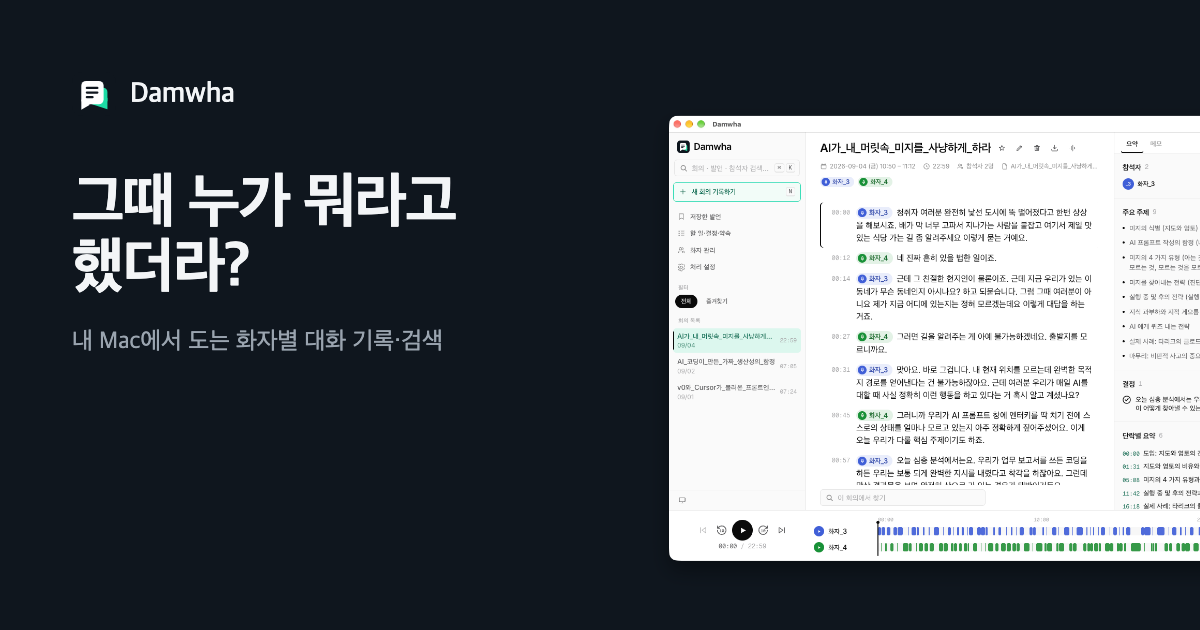
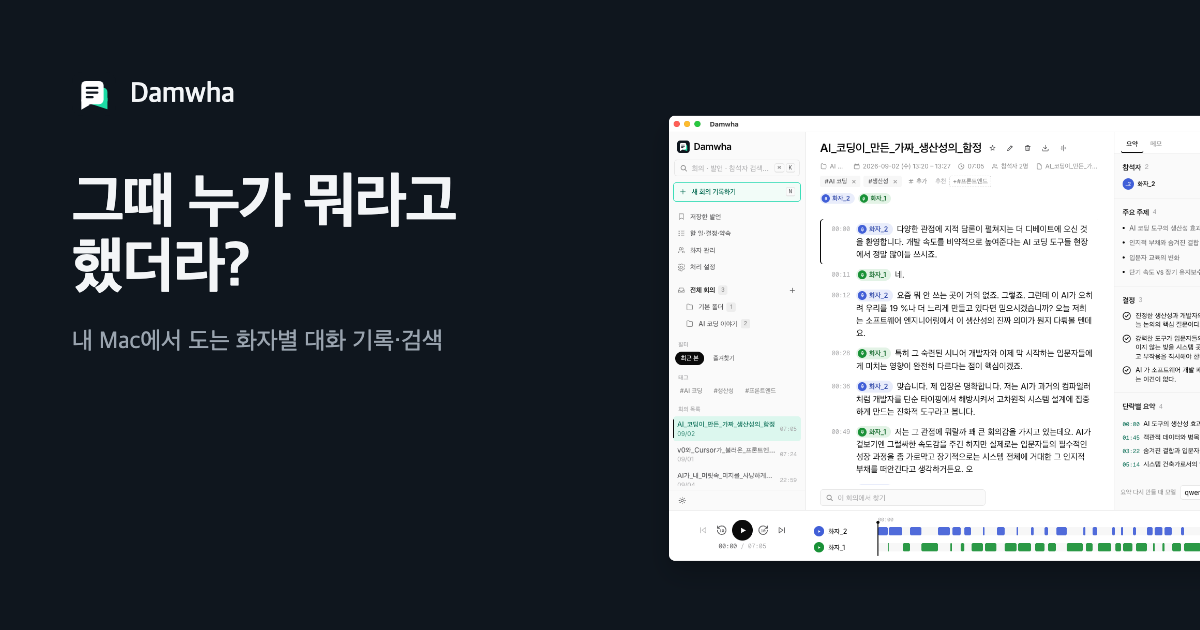
feat(site): 폴더·태그 정리 기능을 소개하고 앱 화면 이미지를 다시 찍는다
기능 목록 맨 앞에 '폴더와 태그로 정리해요'를 두 칸 너비로 넣고(카드 목록·결정/할 일
요약·태그 추천), 화자('나' 지정)·검색(태그로 좁히기) 문구를 보탠다. 이미지 6장은
새 데모 시드를 띄운 SPA를 1280x828로 찍어 창 테두리를 입혔고, 히어로가 바뀌어
OG 두 장도 다시 만든다.

diff --git a/site/src/i18n/ko.ts b/site/src/i18n/ko.ts
@@ -40,14 +40,21 @@ export const ko = {
     title: "그 밖에 하는 일",
     items: [
       {
+        title: "폴더와 태그로 정리해요",
+        body: "앱을 열면 대화가 카드로 펼쳐지고, 최근 결정과 진행 중인 할 일이 맨 위에 보여요. 대화를 폴더에 넣고 태그를 여러 개 붙일 수 있어요 — 요약이 이미 쓰던 태그 중에서 어울리는 걸 추천해요. 사이드바와 ⌘K에서 태그로 걸러 찾아요.",
+        image: "organize",
+        alt: "사이드바의 폴더·태그와 최근 결정, 대화 카드가 보이는 회의 목록 화면",
+        wide: true,
+      },
+      {
         title: "누가 말했는지 알아요",
-        body: "목소리 기반 화자 식별. 한 번 등록한 화자는 이후 모든 대화에서 알아봐요.",
+        body: "목소리 기반 화자 식별. 한 번 등록한 화자는 이후 모든 대화에서 알아봐요. 나를 지정해 두면 내가 참여한 대화만 모아 봐요.",
         image: "speakers",
         alt: "목소리가 등록된 화자 관리 화면",
       },
       {
         title: "어디서든 ⌘K 검색",
-        body: "뜻과 키워드를 함께 보는 하이브리드 검색으로, 어느 화면에서든 모든 발화와 대화를 찾아요.",
+        body: "뜻과 키워드를 함께 보는 하이브리드 검색으로, 어느 화면에서든 모든 발화와 대화를 찾아요. 태그로 좁혀 볼 수도 있어요.",
         image: "search",
         alt: "검색어가 걸린 발화와 대화를 함께 보여 주는 명령 팔레트 검색 결과",
       },

diff --git a/site/src/i18n/en.ts b/site/src/i18n/en.ts
@@ -38,14 +38,21 @@ export const en = {
     title: "What else it does",
     items: [
       {
+        title: "Organized with folders and tags",
+        body: "The app opens on your conversations as cards, with the latest decisions and open action items up top. File each one in a folder, give it as many tags as you like — the summary suggests ones you already use — and filter the sidebar or ⌘K by tag.",
+        image: "organize" as const,
+        alt: "Conversation list with folders and tags in the sidebar, recent decisions and conversation cards",
+        wide: true,
+      },
+      {
         title: "Knows who is speaking",
-        body: "Voiceprint-based speaker identification. Enroll a speaker once and they're recognized in every later conversation.",
+        body: "Voiceprint-based speaker identification. Enroll a speaker once and they're recognized in every later conversation. Mark one as yourself to list the conversations you were in.",
         image: "speakers" as const,
         alt: "Speaker management with enrolled voiceprints",
       },
       {
         title: "⌘K search, everywhere",
-        body: "Hybrid search — meaning and keywords — over every utterance and conversation, from any screen.",
+        body: "Hybrid search — meaning and keywords — over every utterance and conversation, from any screen. Narrow it down by tag.",
         image: "search" as const,
         alt: "Command palette search results listing matching utterances and their conversation",
       },
